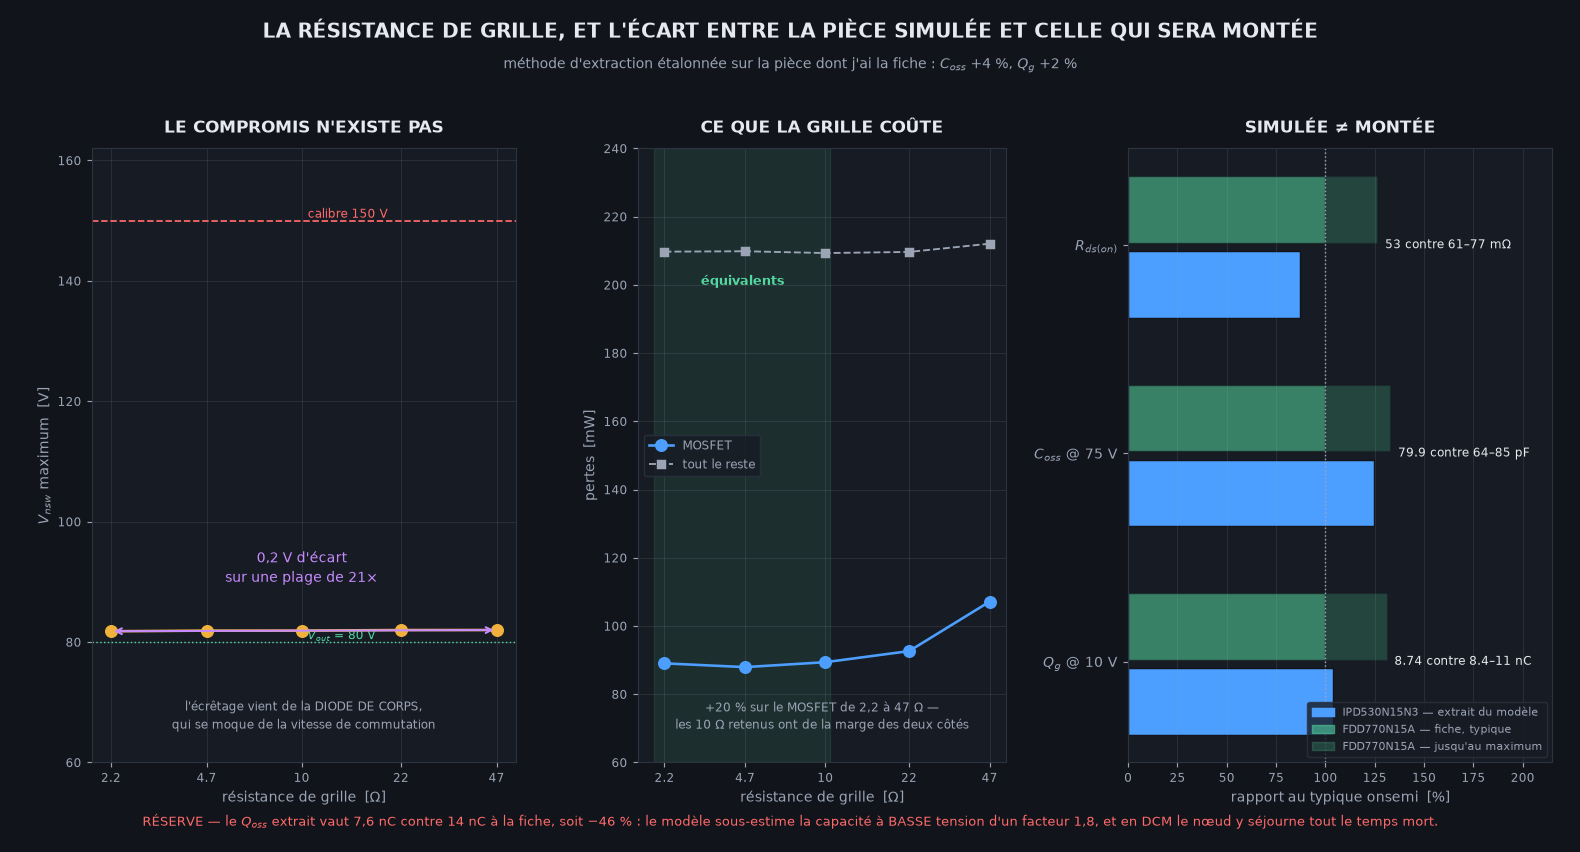
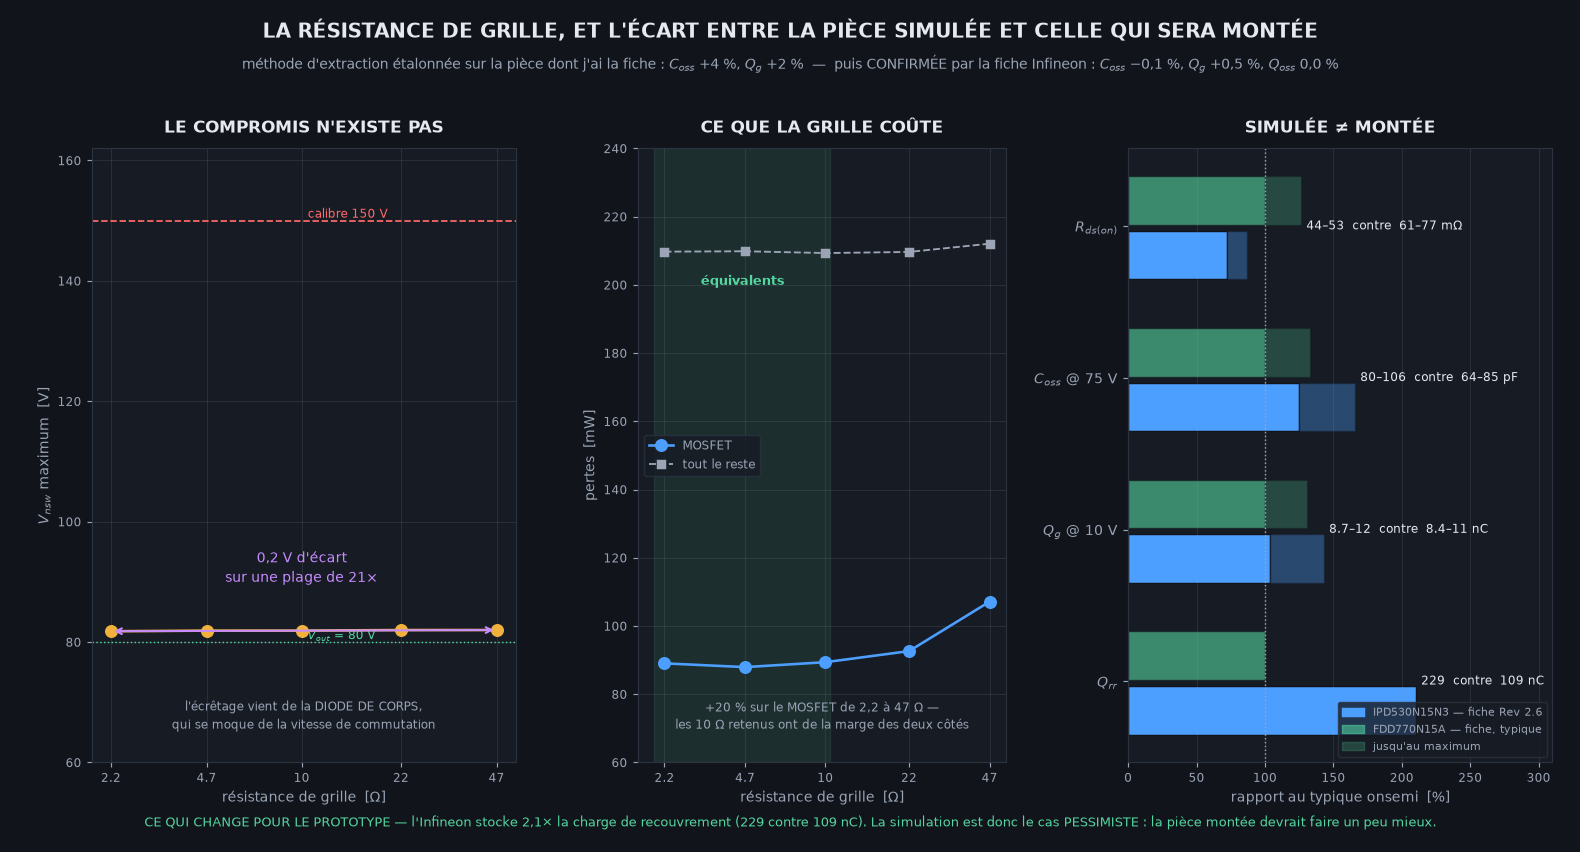
La fiche IPD530N15N3 valide l'extraction a mieux qu'un demi pour cent
La fiche Rev 2.6 est arrivee. Elle confirme la methode d'extraction, qui
avait ete etalonnee sur la seule piece dont j'avais la fiche :

  grandeur         extrait du modele   fiche Rev 2.6      ecart
  Coss a 75 V           79,9 pF        80 typ / 106 max   -0,1 %
  Qg a 10 V             8,74 nC        8,7 typ / 12 max   +0,5 %
  Qoss a 75 V           22,0 nC        22 typ / 29 max     0,0 %

DEUX CORRECTIONS

J'avais ecrit que le modele sous-estimait la capacite a basse tension d'un
facteur 1,8 "sur les deux pieces". La seconde moitie ne reposait sur rien :
je n'avais aucune mesure sur l'Infineon. C'est une faiblesse du modele
ONSEMI seul ; le modele Infineon est exact. Une reserve est une affirmation
comme une autre, et l'etendre a un cas non mesure c'est deviner avec le ton
de la prudence.

Et je relevais Qoss a 37,5 V pour les deux pieces -- la condition de la
fiche onsemi. Infineon specifie la sienne a 75 V. A 37,5 V l'extraction
Infineon donne 18,1 nC, qui ne se compare a rien.

CE QUI TIENT. La methode d'extraction est bonne et reste utilisable la
prochaine fois qu'une fiche manque. Et le modele Infineon est excellent,
ce qui vaut d'etre dit apres l'avoir malmene : il ne converge qu'avec
cshunt, mais ce qu'il rend est juste.

POUR LE PROTOTYPE, les deux fiches en main :

                    IPD530N15N3 simule   FDD770N15A monte
  Rds(on)              44 / 53 mOhm        61 / 77 mOhm
  Coss a 75 V          80 / 106 pF         64 / 85 pF
[…]

diff --git a/04-emi/etapes/fig_grille_pieces.py b/04-emi/etapes/fig_grille_pieces.py
@@ -43,10 +43,15 @@ VMAX = np.array([81.8, 81.9, 81.9, 82.0, 82.0])
 TOT = np.array([298.79, 297.81, 298.72, 302.30, 319.24])
 REND = np.array([96.32, 96.31, 96.31, 96.28, 96.16])
 
-# (grandeur, Infineon extrait, onsemi fiche typ, onsemi fiche max, unite)
-PIECES = (("$R_{ds(on)}$", 53.0, 61.0, 77.0, "mΩ"),
-          ("$C_{oss}$ @ 75 V", 79.9, 64.0, 85.0, "pF"),
-          ("$Q_g$ @ 10 V", 8.74, 8.4, 11.0, "nC"))
+# LES DEUX FICHES EN MAIN. Plus aucune valeur extraite ici : la fiche
+# IPD530N15N3 Rev 2.6 est arrivee, et elle a VALIDE l'extraction a mieux
+# qu'un pour cent -- Coss 79,9 contre 80 typ, Qg 8,74 contre 8,7, Qoss
+# 22,0 contre 22. La methode etait bonne ; on n'en a plus besoin.
+# (grandeur, Infineon typ, Infineon max, onsemi typ, onsemi max, unite)
+PIECES = (("$R_{ds(on)}$", 44.0, 53.0, 61.0, 77.0, "mΩ"),
+          ("$C_{oss}$ @ 75 V", 80.0, 106.0, 64.0, 85.0, "pF"),
+          ("$Q_g$ @ 10 V", 8.7, 12.0, 8.4, 11.0, "nC"),
+          ("$Q_{rr}$", 229.0, 229.0, 109.0, 109.0, "nC"))
 
 
 def pose(a):
@@ -115,20 +120,24 @@ def main() -> int:
     a = fig.add_subplot(gs[0, 2])
     pose(a)
     y = np.arange(len(PIECES))[::-1]
-    for i, (nom, inf, ty, mx, u) in enumerate(PIECES):
+    for i, (nom, it, im, ot, om, u) in enumerate(PIECES):
         yy = y[i]
-        # on normalise sur le typique onsemi pour rendre les 3 comparables
-        a.barh(yy + .17, 100.0, .32, color=VE, alpha=.55, edgecolor=F)
-        a.barh(yy + .17, 100 * mx / ty - 100, .32, left=100, color=VE,
-               alpha=.22, edgecolor=F)
-        a.barh(yy - .19, 100 * inf / ty, .32, color=BL, edgecolor=F)
-        a.text(100 * max(inf, mx) / ty + 4, yy,
-               f"{inf:g} contre {ty:g}–{mx:g} {u}", va="center",
-               color="#e6e9ef", fontsize=8.6)
+        a.barh(yy + .17, 100.0, .32, color=VE, alpha=.60, edgecolor=F)
+        if om > ot:
+            a.barh(yy + .17, 100 * om / ot - 100, .32, left=100, color=VE,
+                   alpha=.25, edgecolor=F)
+        a.barh(yy - .19, 100 * it / ot, .32, color=BL, edgecolor=F)
+        if im > it:
+            a.barh(yy - .19, 100 * (im - it) / ot, .32, left=100 * it / ot,
+                   color=BL, alpha=.35, edgecolor=F)
+        a.text(100 * max(im, om) / ot + 4, yy,
+               f"{it:g}–{im:g}  contre  {ot:g}–{om:g} {u}" if im > it
+               else f"{it:g}  contre  {ot:g} {u}",
+               va="center", color="#e6e9ef", fontsize=8.2)
     a.axvline(100, color=V, ls=":", lw=1.0)
     a.set_yticks(y)
     a.set_yticklabels([p[0] for p in PIECES], fontsize=10)
-    a.set_xlim(0, 215)
+    a.set_xlim(0, 310)
     a.set_xlabel("rapport au typique onsemi  [%]", color=V, fontsize=9.5)
     a.grid(False, axis="y")
     a.set_title("SIMULÉE ≠ MONTÉE", color="#e6e9ef", fontsize=11.5,
@@ -136,9 +145,9 @@ def main() -> int:
     a.legend(handles=[plt.Rectangle((0, 0), 1, 1, color=BL),
                       plt.Rectangle((0, 0), 1, 1, color=VE, alpha=.55),
                       plt.Rectangle((0, 0), 1, 1, color=VE, alpha=.22)],
-             labels=["IPD530N15N3 — extrait du modèle",
+             labels=["IPD530N15N3 — fiche Rev 2.6",
                      "FDD770N15A — fiche, typique",
-                     "FDD770N15A — jusqu'au maximum"],
+                     "jusqu'au maximum"],
              fontsize=7.6, facecolor=G, edgecolor="#2b3240", labelcolor=V,
              loc="lower right")
 
@@ -146,12 +155,13 @@ def main() -> int:
              "SIMULÉE ET CELLE QUI SERA MONTÉE", ha="center",
              color="#e6e9ef", fontsize=13.5, weight="bold")
     fig.text(.5, .918, "méthode d'extraction étalonnée sur la pièce dont j'ai "
-             "la fiche : $C_{oss}$ +4 %, $Q_g$ +2 %", ha="center", color=V,
-             fontsize=9.6)
-    fig.text(.5, .030, "RÉSERVE — le $Q_{oss}$ extrait vaut 7,6 nC contre "
-             "14 nC à la fiche, soit −46 % : le modèle sous-estime la "
-             "capacité à BASSE tension d'un facteur 1,8, et en DCM le nœud y "
-             "séjourne tout le temps mort.", ha="center", color=RO,
+             "la fiche : $C_{oss}$ +4 %, $Q_g$ +2 %  —  puis CONFIRMÉE par la "
+             "fiche Infineon : $C_{oss}$ −0,1 %, $Q_g$ +0,5 %, $Q_{oss}$ 0,0 %",
+             ha="center", color=V, fontsize=9.4)
+    fig.text(.5, .030, "CE QUI CHANGE POUR LE PROTOTYPE — l'Infineon stocke "
+             "2,1× la charge de recouvrement (229 contre 109 nC). La "
+             "simulation est donc le cas PESSIMISTE : la pièce montée "
+             "devrait faire un peu mieux.", ha="center", color=VE,
              fontsize=9.2)
     plt.savefig(ICI / "grille_pieces.png", dpi=104, facecolor=F)
     print("  grille_pieces.png")

diff --git a/04-emi/etapes/extrait_mosfet.py b/04-emi/etapes/extrait_mosfet.py
@@ -140,7 +140,8 @@ def main() -> int:
             #
             # Or la rampe est a COURANT CONSTANT : Qoss = I.t, point.
             # C'est la definition meme de la manip, et elle ne derive rien.
-            qoss = float(np.interp(37.5, v, tc)) * 1e-3 * 1e9
+            qoss = {m: float(np.interp(u, v, tc)) * 1e-3 * 1e9
+                    for m, u in (("37.5", 37.5), ("75", 75.0))}
             # Qg au PREMIER franchissement de 10 V. `np.interp` suppose
             # une abscisse croissante ; V(ng) ne l'est pas (palier Miller
             # puis sonnerie), et l'interpolation retombait sur 0,00 nC.
@@ -148,7 +149,8 @@ def main() -> int:
             q10 = q[k] * 1e9 if k > 0 else float("nan")
             res[mod] = dict(c75=c75, qoss=qoss, q10=q10, v=v, c=c, g=g, q=q)
             print(f"  {mod} : Coss(75 V) = {c75:.1f} pF   "
-                  f"Qoss(37,5 V) = {qoss:.1f} nC   Qg(10 V) = {q10:.2f} nC")
+                  f"Qoss = {qoss['37.5']:.1f} nC a 37,5 V et "
+                  f"{qoss['75']:.1f} nC a 75 V   Qg(10 V) = {q10:.2f} nC")
         except Exception as e:
             print(f"  {mod} : extraction ECHOUEE -- {type(e).__name__}: {e}")
     if "fdd770" in res:
@@ -157,7 +159,7 @@ def main() -> int:
         print(f"    {'grandeur':22s} {'fiche':>18s} {'extrait':>10s} {'ecart':>9s}")
         for lib, ex, (ty, mx, u) in (
                 ("Coss a 75 V", f["c75"], FICHE_FDD["Coss a 75 V"]),
-                ("Qoss a 37,5 V", f["qoss"], FICHE_FDD["Qoss a 37,5 V"]),
+                ("Qoss a 37,5 V", f["qoss"]["37.5"], FICHE_FDD["Qoss a 37,5 V"]),
                 ("Qg total a 10 V", f["q10"], FICHE_FDD["Qg total a 10 V"])):
             mxs = f"{mx:g}" if mx else "--"
             print(f"    {lib:22s} {ty:8g} / {mxs:>6s} {ex:9.1f} "

diff --git a/04-emi/RETEX-erreurs.md b/04-emi/RETEX-erreurs.md
@@ -594,3 +594,56 @@ paie.** Les 10 Ω retenus ont de la marge des deux côtés.
 
 > J'avais attribué deux effets à la même cause sans jamais faire varier
 > cette cause. Le balayage était à une option près.
+
+## M — La fiche qui arrive après (2026-11-21)
+
+### M1 — Une réserve posée trop large
+
+Le $Q_{oss}$ extrait du modèle onsemi valait 7,6 nC contre 14 à sa fiche.
+J'en ai conclu que « le modèle sous-estime la capacité à basse tension
+d'un facteur 1,8, **sur les deux pièces** ». La seconde moitié ne reposait
+sur rien : je n'avais aucune mesure sur l'autre.
+
+La fiche Infineon arrivée ensuite tranche — le modèle y est **exact** :
+
+| | extrait du modèle | fiche Rev 2.6 | écart |
+|---|---|---|---|
+| $C_{oss}$ @ 75 V | 79,9 pF | 80 typ / 106 max | **−0,1 %** |
+| $Q_g$ @ 10 V | 8,74 nC | 8,7 typ / 12 max | **+0,5 %** |
+| $Q_{oss}$ @ 75 V | 22,0 nC | 22 typ / 29 max | **0,0 %** |
+
+> Une réserve est une affirmation comme une autre. L'étendre à un cas
+> non mesuré, c'est deviner — avec le ton de la prudence.
+
+### M2 — Comparer à la condition de la fiche
+
+J'avais relevé $Q_{oss}$ à 37,5 V pour les deux pièces. C'est la condition
+de la fiche **onsemi** ; Infineon spécifie la sienne à **75 V**. À 37,5 V
+l'extraction Infineon donne 18,1 nC, qui ne se compare à rien.
+
+### Ce qui en ressort, et qui tient
+
+**La méthode d'extraction est bonne.** Étalonnée sur la pièce connue
+(±4 %), elle a prédit les trois grandeurs de la pièce inconnue à mieux
+qu'un demi pour cent. Elle reste utilisable la prochaine fois qu'une
+fiche manque.
+
+**Et le modèle Infineon est excellent**, ce qui vaut d'être dit après
+l'avoir malmené : il ne converge qu'avec `cshunt`, mais ce qu'il rend est
+juste.
+
+### Pour le prototype
+
+| | IPD530N15N3 *simulé* | FDD770N15A *monté* |
+|---|---|---|
+| $R_{ds(on)}$ | 44 / **53** mΩ | 61 / **77** mΩ |
+| $C_{oss}$ @ 75 V | 80 / 106 pF | 64 / 85 pF |
+| $Q_g$ @ 10 V | 8,7 / 12 nC | 8,4 / 11 nC |
+| $t_{rr}$ | 80 ns | 56,4 ns |
+| **$Q_{rr}$** | **229 nC** | **109 nC** |
+| $T_j$ max | 175 °C | 150 °C |
+
+L'Infineon stocke **2,1× la charge de recouvrement**. En DCM la diode de
+corps conduit à chaque excursion négative du temps mort, donc **la
+simulation est le cas pessimiste** : la pièce montée devrait faire un peu
+mieux. C'est la bonne direction pour un écart qu'on ne maîtrise pas.
